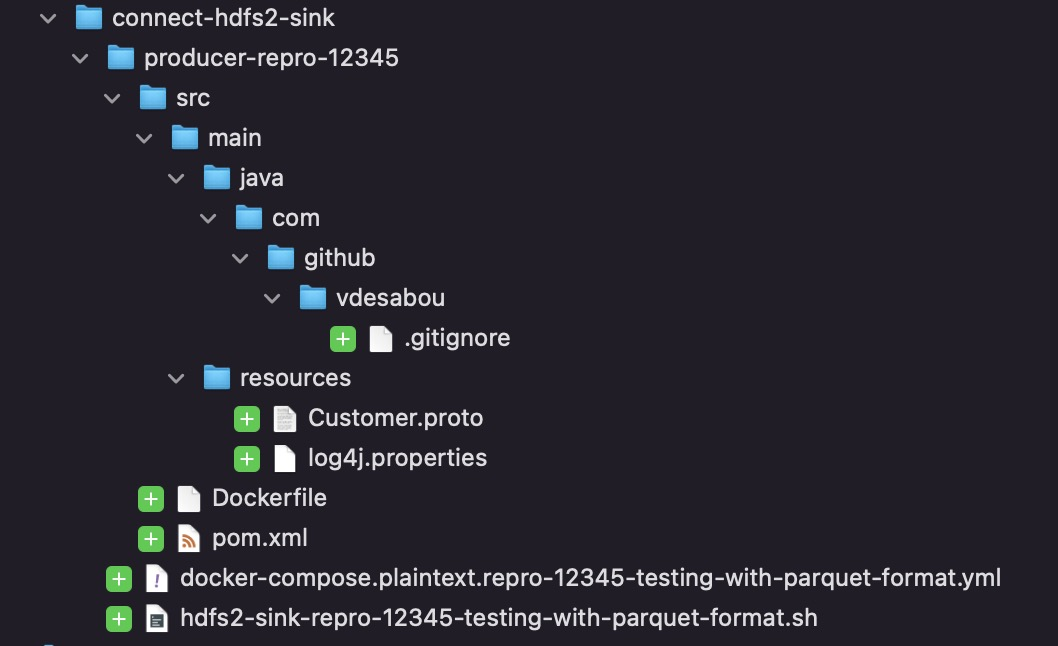
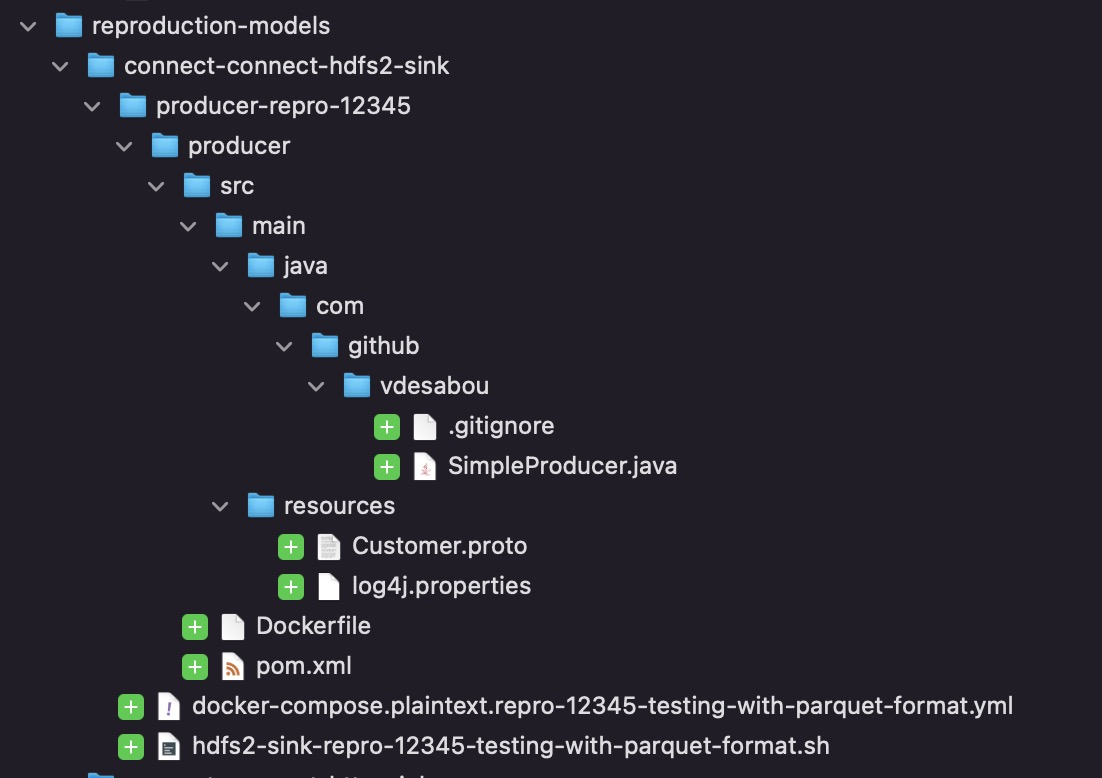
repro models are now in their own folders

Changed region(s): [[0.0312, 0.0, 0.9357, 1.0]]

diff --git a/docs/reusables.md b/docs/reusables.md
@@ -16,10 +16,11 @@ Example:
 cd connect/connect-hdfs2-sink
 ../../scripts/bootstrap-reproduction-model.sh hdfs2-sink.sh "12345 testing with parquet format"
 
-16:54:01 ℹ 💫 Using default CP version 7.0.1
-16:54:01 ℹ 🎓 set TAG environment variable to specify different version, see https://kafka-docker-playground.io/#/how-to-use?id=🎯-for-confluent-platform-cp
-16:54:01 ℹ 🎩 Creating file docker-compose.plaintext.repro-12345-testing-with-parquet-format.yml
-16:54:01 ℹ 🎩 Creating file hdfs2-sink-repro-12345-testing-with-parquet-format.sh
+12:25:06 ℹ 💫 Using default CP version 7.0.1
+12:25:06 ℹ 🎓 set TAG environment variable to specify different version, see https://kafka-docker-playground.io/#/how-to-use?id=🎯-for-confluent-platform-cp
+12:25:06 ℹ 🎩 Creating file /Users/vsaboulin/Documents/github/kafka-docker-playground/reproduction-models/connect-connect-hdfs2-sink/docker-compose.plaintext.repro-12345-testing-with-parquet-format.yml
+12:25:06 ℹ 🎩 Creating file /Users/vsaboulin/Documents/github/kafka-docker-playground/reproduction-models/connect-connect-hdfs2-sink/hdfs2-sink-repro-12345-testing-with-parquet-format.sh
+12:25:06 ℹ 📂 The reproduction files are now available in: /Users/vsaboulin/Documents/github/kafka-docker-playground/reproduction-models/connect-connect-hdfs2-sink
 ```
 
 If you want to automatically generate a Java Producer, just add a third parameter (one of `avro`, `protobuf` or `json-schema`):
@@ -29,14 +30,12 @@ Example with `protobuf`:
 ```bash
 cd connect/connect-hdfs2-sink
 ../../scripts/bootstrap-reproduction-model.sh hdfs2-sink.sh "12345 testing with parquet format" protobuf
-16:56:15 ℹ 💫 Using default CP version 7.0.1
-16:56:15 ℹ 🎓 set TAG environment variable to specify different version, see https://kafka-docker-playground.io/#/how-to-use?id=🎯-for-confluent-platform-cp
-16:56:15 ℹ 🎩 Creating file docker-compose.plaintext.repro-12345-testing-with-parquet-format.yml
-16:56:15 ℹ 🎩 Creating file hdfs2-sink-repro-12345-testing-with-parquet-format.sh
-16:56:15 ℹ 🎩 Replacing topic test_hdfs with customer_protobuf
-16:56:15 ℹ 🎩 Adding producer-repro-12345 container to docker-compose.plaintext.repro-12345-testing-with-parquet-format.yml
-16:56:15 ℹ 🎩 Adding command to build jar for producer-repro-12345 to /Users/vsaboulin/Documents/github/kafka-docker-playground/connect/connect-hdfs2-sink/hdfs2-sink-repro-12345-testing-with-parquet-format.sh
-16:56:15 ℹ 🎩 Adding command to run producer to /Users/vsaboulin/Documents/github/kafka-docker-playground/connect/connect-hdfs2-sink/hdfs2-sink-repro-12345-testing-with-parquet-format.sh
+12:24:36 ℹ 💫 Using default CP version 7.0.1
+12:24:36 ℹ 🎓 set TAG environment variable to specify different version, see https://kafka-docker-playground.io/#/how-to-use?id=🎯-for-confluent-platform-cp
+12:24:36 ℹ 🎩 Creating file /Users/vsaboulin/Documents/github/kafka-docker-playground/reproduction-models/connect-connect-hdfs2-sink/docker-compose.plaintext.repro-12345-testing-with-parquet-format.yml
+12:24:36 ℹ 🎩 Creating file /Users/vsaboulin/Documents/github/kafka-docker-playground/reproduction-models/connect-connect-hdfs2-sink/hdfs2-sink-repro-12345-testing-with-parquet-format.sh
+12:24:36 ℹ 🎩 Adding Java protobuf producer in /Users/vsaboulin/Documents/github/kafka-docker-playground/reproduction-models/connect-connect-hdfs2-sink/producer-repro-12345
+12:24:36 ℹ 📂 The reproduction files are now available in: /Users/vsaboulin/Documents/github/kafka-docker-playground/reproduction-models/connect-connect-hdfs2-sink
 ```
 
 This will create the following files:
